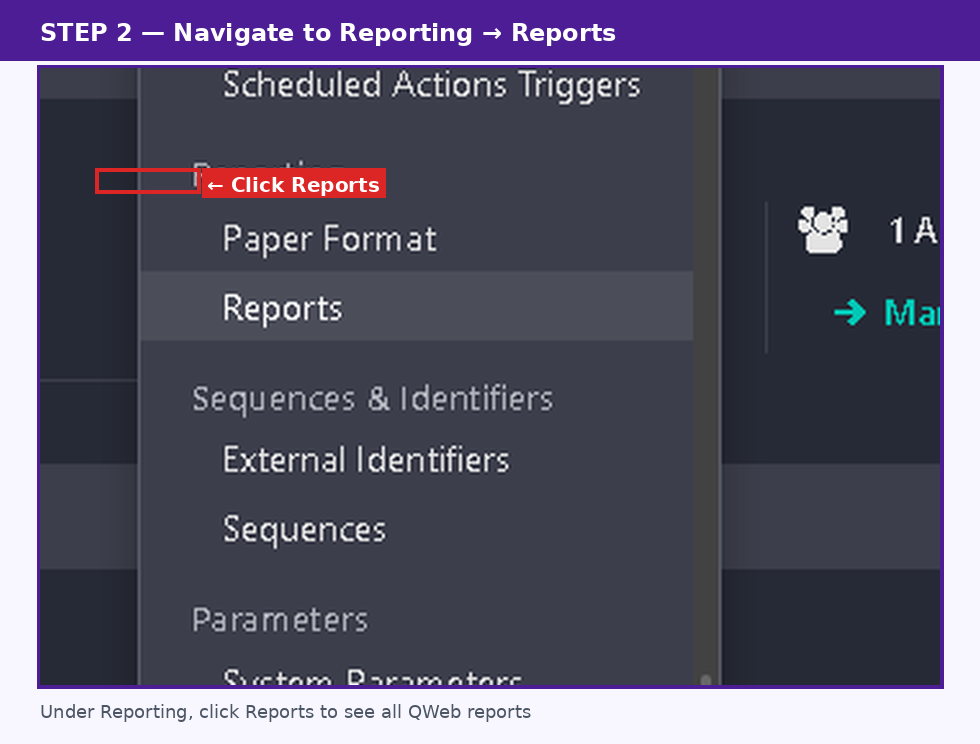
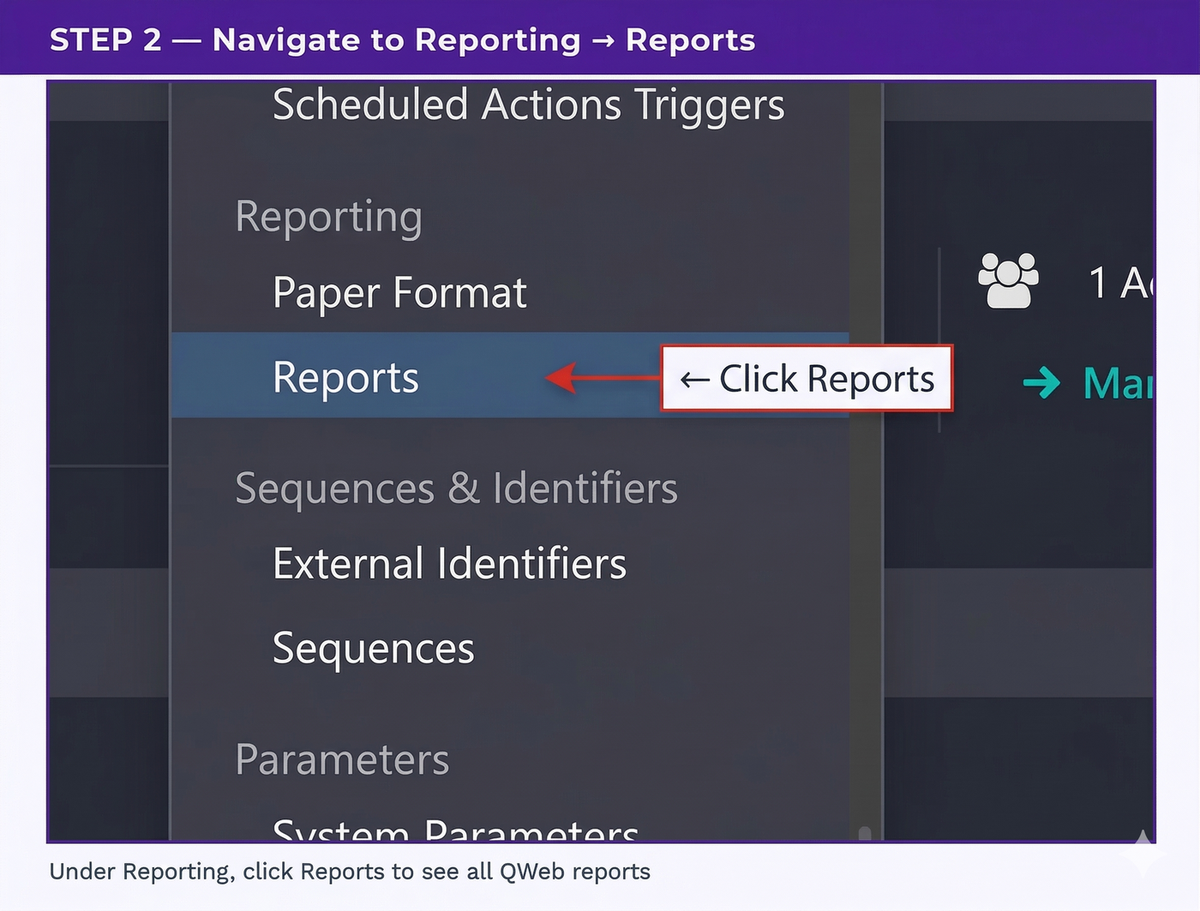
Optimize screenshots and bump to v19.0.1.0.4

diff --git a/qweb_report_analyzer/__manifest__.py b/qweb_report_analyzer/__manifest__.py
@@ -1,6 +1,6 @@
 {
     'name': 'QWeb Report Analyzer - View Dependency Tree',
-    'version': '19.0.1.0.3',
+    'version': '19.0.1.0.4',
     'category': 'Technical',
     'summary': 'Analyze QWeb report views: dependency tree, t-calls, XPaths, inherited views — free & open source',
     'description': 'Analyze any QWeb report and get a full dependency tree with inherited views, t-calls, XPaths and module ownership. Free and open source.',
